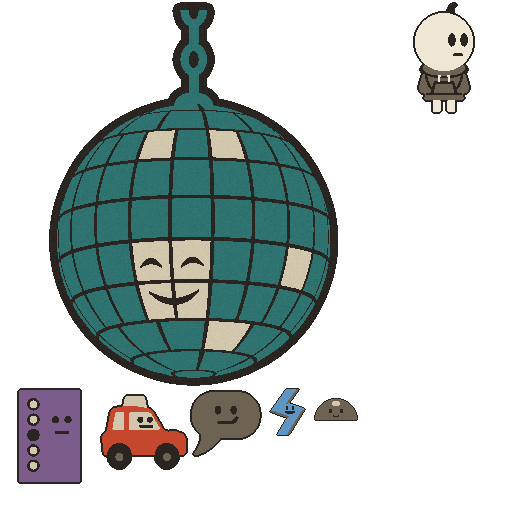
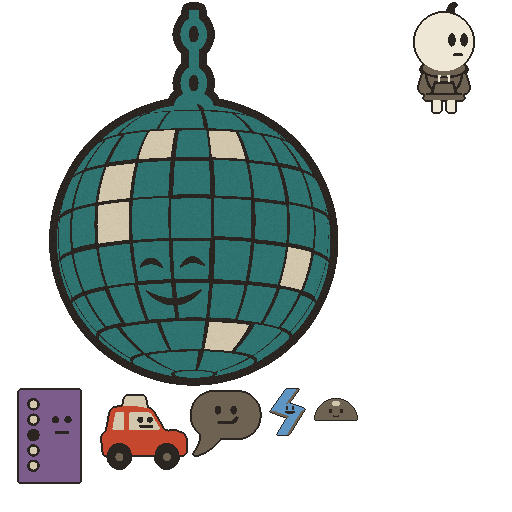
Prom's final drawing, repacked
Claude-Session: https://claude.ai/code/session_01WQQxSLXSn7ibANx191ZfJc

diff --git a/assets/prompts/boss-prom.md b/assets/prompts/boss-prom.md
@@ -4,10 +4,10 @@
 - **Act:** adolescence
 - **Role:** boss
 - **Source:** authored SVG, `tools/art/svg/adolescence/boss-prom.svg`
[2 lines of base64/hex data omitted]
 - **Rasteriser:** sharp 0.34.5 (libvips 8.17.3, librsvg 2.61.2)
 - **Render:** 1064.303 dpi, 4× supersampled and area-averaged
-- **Rendered:** 2026-09-27T23:48:13.108Z
+- **Rendered:** 2026-09-27T23:49:51.845Z
 - **Sprite size:** 384px
 - **Tests:** the hanging sphere — boss teal at boss scale, gold only on the light it throws
 
@@ -21,13 +21,13 @@ a mirror ball hanging on a short chain from the top edge of the frame, at boss s
 
 | Check | Result | Measured | Expected |
 |---|---|---|---|
-| silhouette-area | pass | 0.4678 | 0.25–0.95 of canvas |
+| silhouette-area | pass | 0.4674 | 0.25–0.95 of canvas |
 | background-contrast | pass | 0.1736 | >= 0.12 median Oklab L from adolescence-deep |
-| background-contrast-coverage | pass | 0.2836 | <= 0.4 of sprite may vanish into adolescence-deep |
+| background-contrast-coverage | pass | 0.2854 | <= 0.4 of sprite may vanish into adolescence-deep |
 | palette-conformance | pass | 0.0293 | <= 0.0353 Oklab from a palette entry |
 | palette-variety | pass | 4 | >= 3 distinct palette colours |
-| palette-dominance | pass | 0.6027 | no colour above 0.9 of the sprite |
-| readable-48px-silhouette | pass | 0.4744 | >= 0.175 coverage at 48px |
-| readable-48px-structure | pass | 7 | >= 3 palette colours still visible at 48px |
+| palette-dominance | pass | 0.6321 | no colour above 0.9 of the sprite |
+| readable-48px-silhouette | pass | 0.474 | >= 0.175 coverage at 48px |
+| readable-48px-structure | pass | 5 | >= 3 palette colours still visible at 48px |
 | enemy-value-ceiling | pass | 0.8512 | <= 0.856 Oklab L (bone); paper belongs to the player |
-| readable-48px-detail | pass | 0.3138 | >= 0.06 edge density at 48px |
+| readable-48px-detail | pass | 0.3082 | >= 0.06 edge density at 48px |
